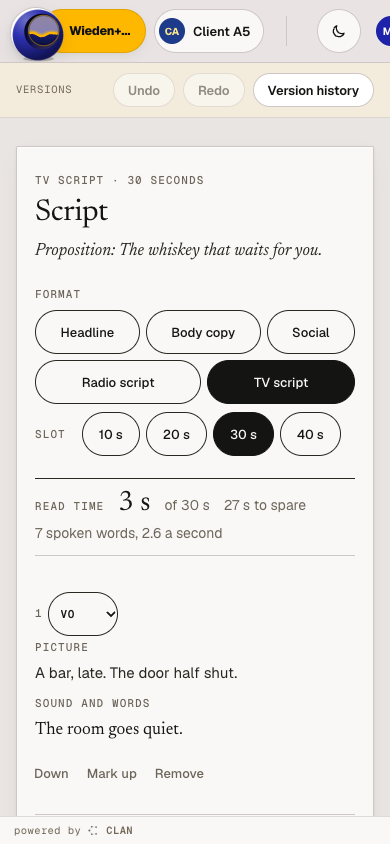
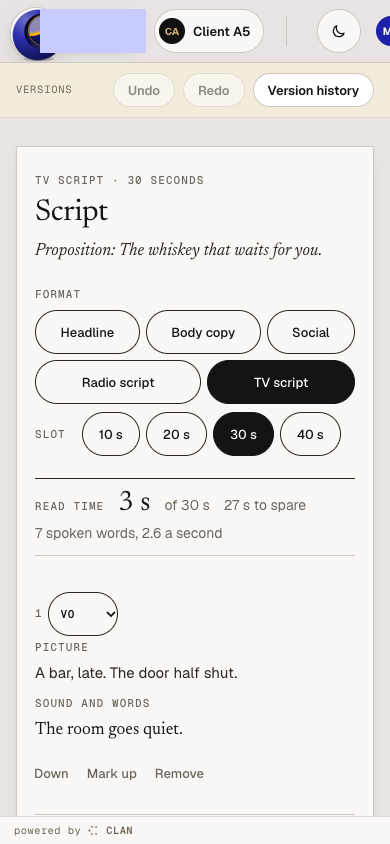
docs: mask the roster agency in the Script editor screenshots

Changed region(s): [[0.0615, 0.0, 0.4923, 0.0616]]

diff --git a/app/e2e/j001-p2-script-editor.spec.ts b/app/e2e/j001-p2-script-editor.spec.ts
@@ -40,7 +40,8 @@ async function shot(page: Page, name: string, size: Size) {
   if (!shots) return
   mkdirSync(shots, { recursive: true })
   await page.waitForTimeout(400)
-  await page.screenshot({ path: join(shots, `${name}-${size.tag}.png`), fullPage: size.width < 1000 })
+  // The roster agency wears a real agency's name: it is masked, never shown.
+  await page.screenshot({ path: join(shots, `${name}-${size.tag}.png`), fullPage: size.width < 1000, mask: [page.getByTestId('agency-pill')], maskColor: '#C8CBFF' })
 }
 
 for (const size of SIZES) {
